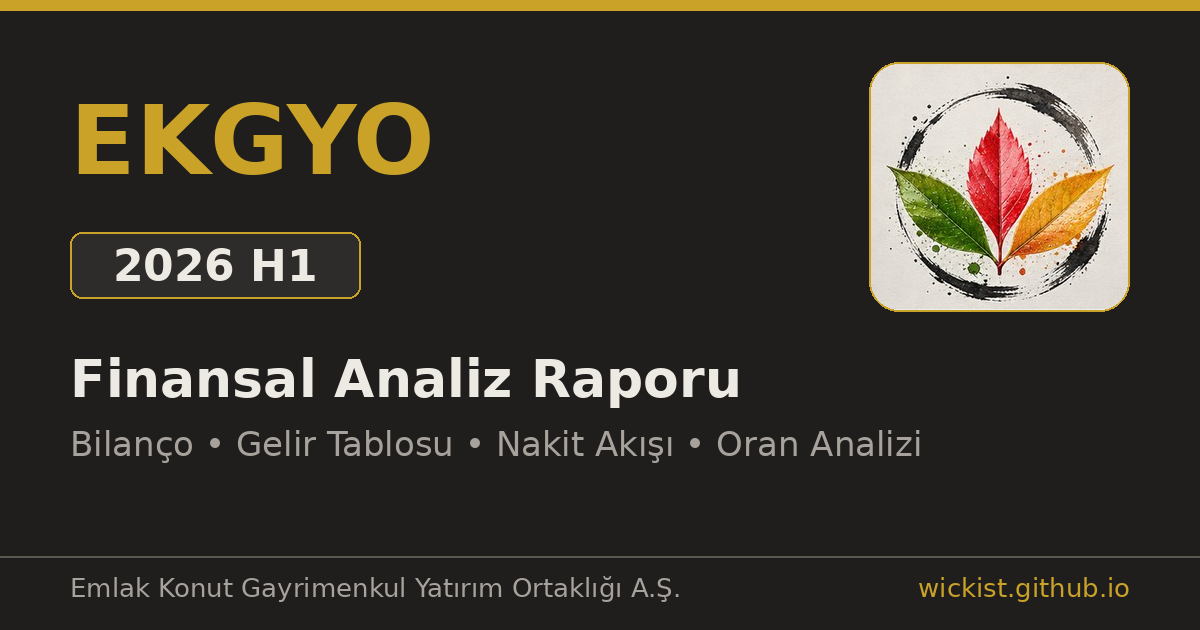
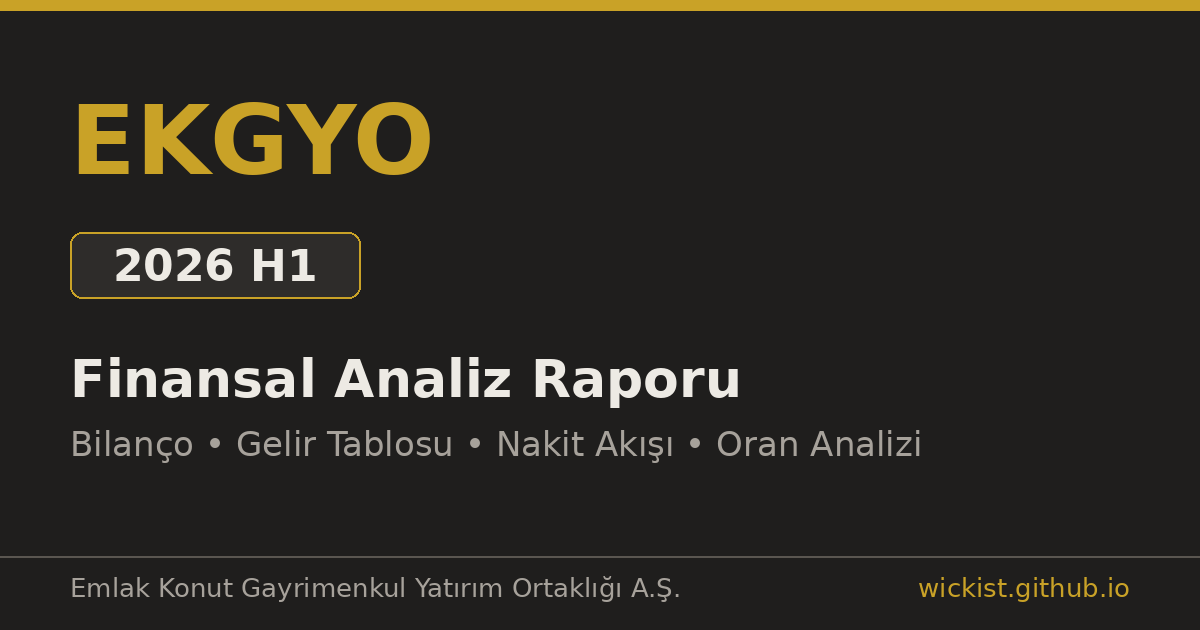
fix(report): BAHKM 2026-Q4 bos footer kalinti + unicode ustsimge temizligi; eski 16 kapak logosuz geri alindi (make_og --only)

Changed region(s): [[0.7092, 0.0905, 0.9558, 0.5127]]

diff --git a/reports/BAHKM/2026-Q4/index.html b/reports/BAHKM/2026-Q4/index.html
@@ -203,7 +203,7 @@ code{font-family:ui-monospace,monospace;font-size:.9em;background:#EFEBDD;border
 <text x="120" y="132" text-anchor="middle" font-family="Inter" font-size="10" fill="#6B675E">son 4 hafta net satım</text>
 </g>
 </svg></div>
-<p class="figcap">Sol: anlık takas payı — YAT %33,4 · VKY %11,7 · YATFON %10,4 · TAC %7,9 · MBS %5,5 · IYM %5,3 · diğer %25,8.⁶ Orta: 14 Eyl–15 Eki net alıcılar (takas Δ; lot) — YAT 1,07 mn (%43) · TAC 0,78 mn (%32) · MLB 0,32 mn (%13) · YKR 0,15 mn · diğer; saklama grubu MBS hariç. Sağ: aynı pencere net satıcılar — DZY* 0,75 mn (%42; fon satışının yürütüldüğü hesap, kendi malı değil) · TRA 0,26 · IYM 0,21 · VKY 0,17 · GRM+ZRY+FNY 0,40; TKSDG toplam-fark kalemi hariç.¹</p>
+<p class="figcap">Sol: anlık takas payı — YAT %33,4 · VKY %11,7 · YATFON %10,4 · TAC %7,9 · MBS %5,5 · IYM %5,3 · diğer %25,8. Orta: 14 Eyl–15 Eki net alıcılar (takas Δ; lot) — YAT 1,07 mn (%43) · TAC 0,78 mn (%32) · MLB 0,32 mn (%13) · YKR 0,15 mn · diğer; saklama grubu MBS hariç. Sağ: aynı pencere net satıcılar — DZY* 0,75 mn (%42; fon satışının yürütüldüğü hesap, kendi malı değil) · TRA 0,26 · IYM 0,21 · VKY 0,17 · GRM+ZRY+FNY 0,40; TKSDG toplam-fark kalemi hariç.</p>
 <h3>Kim, hangi maliyetle oturuyor (15.10 anlık yürütme referansı)</h3>
 <div class="tblwrap"><table>
 <tr><th>Kurum</th><th class="num">Takas payı</th><th class="num">Son yürütme ref.</th><th class="num">151,5 ₺'ye göre*</th><th>Okuma</th></tr>
@@ -217,10 +217,10 @@ code{font-family:ui-monospace,monospace;font-size:.9em;background:#EFEBDD;border
 </table></div>
 <p class="note">* <b>Alan uyarısı:</b> <code>Maliyet:</code> defter maliyeti DEĞİLDİR — 107 haftalık <code>maliyet_haftalik</code> serisiyle test edildi: 2026'da YAT'ın takas kitabı ~sabitken alan 113→186→114 ₺ osilasyonu yapıyor, 11.09.2026 değeri gün kapanışına eşit ve 4.291 gözlemde (alan÷kapanış−1) medyan +%0,2: alan fiyatın etrafında salınan anlık yürütme/settlement referansıdır. Kümülatif kitap maliyeti kamuya açık değildir — gerçek geçmiş kanıt <a href="#yurutme" style="color:#E4B96A">#yurutme</a> bölümündedir.</p>
 <div class="okbox"><b>1 — Maliyet tabanı 148–154 TL:</b> maliyeti bilinen takasın <b>%90,7</b>'si (toplam lotun %73,1'i) bu bantta oturuyor; 152 TL tam bandın içinde. Teyitli AKD pencerelerinde Ekim taban işlemleri <b>148,1–150,6 ₺ yürütme ortalamalarıyla</b> gerçekleşti — tabanın kendisi fiilen işlem gördü. 148 altına inildiğinde kurumsal maliyet yastığı kalmıyor — ilk savunma hattı TAC 150,18 / IYM 148,79 kümesi, sonra YAT 150,34'ün 7,77 mn lotu.</div>
-<div class="okbox"><b>2 — Toplanma gerçek ama tek katmanda değil:</b> son 4 hafta takas Δ'sı YAT +1,07 mn, TAC +0,78 mn, YKR +0,15 mn, UNS +0,06 mn ≈ 2,4 mn lot. Teyitli yürütme fiyatlarıyla iki katman var: <b>Ekim katmanı</b> — TAC +774,8 b @148,95, UNS +101,3 b @150,08 (kendi yürütme kümesinden alım); <b>Eylül katmanı</b> — YAT +888,0 b @177,41 (25–30.09). YAT'ın anlık yürütme referansı yine 150,34 ₺: W2'de 716,4 b lotu 191,08 ₺'den satıp Ekim'de düşük maliyetle tamamlayan bir yeniden-fiyatlama. YAT'ın Mart'ta −1,6 mn lot attığı malı Q3'te geri aldığı seri⁷ ile birlikte: aynı kurum döngüsü, net pozisyon yıl boyu +0,27 mn artmış. "Bu fiyattan mal toplanıyor mu?" → evet, ama spekülasyon değil: Ekim alıcısı son yürütme dibinden topluyor, referansa göre kâr %1'de.</div>
-<div class="flag"><b>3 — Satış tarafı tamponsuz + onay kuyruğunda arz:</b> son 4 haftanın gerçek satıcıları (IYM/VKY/GRM/ZRY/FNY ≈ 1,0 mn lot) başabaş veya batık maliyetten bırakıyor — fiyat kırarak mal boşaltacak kâr tamponları yok. Asıl kalem: <b>PHF'nin kalan 1.207.357 lotu</b> (sermayenin %2,2'si, float'ın ~%7,5'i ≈ 183 mn ₺) SPK form onayı bekliyor (başvuru 07.10).³ Onay + tek seferde market satış = 146–148 kümesinin test edilmesi; karşı alıcı (YAT/TAC maliyet bandı) orada. Ekim'de YATFON grubunun −675 b lotu DZY geçidinden @148,80'de satıldı ve aynı bantta TAC tarafından emildi — fon satış tempolarının markette emildiği görülmüş ilk örnek.</div>
-<div class="okbox"><b>4 — Virman = geçit değişimi, aklama değil:</b> PHF'nin mali döngüsü belgeli: PIT'ten al (net +920 b @191,58) → MBS saklamaya virman (+1,27 mn) → DZY'den sat (−675 b ayna çift, yürütme @148,80). Tüm ayna çiftler birebir dengeli (±%0,3), açıklanamayan artık yok; YAT↔TKSDG ve DZY↔YATFON çiftleri saklama operasyonu.⁷ Farklı kurumlardan alınıp farklı kurumlardan satılan mal tek paranın geçit rotasyonu — iz kaybetme (aklama) emaresi değil; 114/114 pencere dolu yürütme serisi doğrular: iz kaybı pencere boşluğunda değil, virmanın işlem olmamasındadır.</div>
-<div class="flag"><b>Karar türetmesi — TUT (AL/SAT tetikli):</b> iki taraf da yürütme bandında oturuyor: toplayıcılar referansa göre %2 altında mal boşaltmıyor, satıcıların aşağı atacak kâr tamponu yok, yürütme tabanı 148–154 örs; tek yeni arz PHF onay kuyruğu. Bu denge 152'de yön avantajsız = <b>TUT</b>. <b>Alım için uygun zaman/fiyat:</b> 148–150 yürütme kümesi (TAC'ın 148,95 ₺ yürütme ortalamayla kendi alış bandı) — ya PHF onaylı satışın bu kümeye düşüp <em>emildiği</em> haftada (arz temizliği + kümeyi tutan alıcı = AL tetiği) ya da 156–160'ın (ZRY/YKR referans üstü eşikleri) hacimle kırılıp üstünde kalınması (yukarıda satıcı yok, float %28,3 incelik). <b>Satım için uygun zaman/fiyat:</b> 146 altı kapanış = yürütme tabanı kırılımı, ZRY (164,6 ref.) ve YKR'nin (171,0 ref.) zorunullaşan satışını tetikler → stop; 156–160'a PHF habersiz volensiz ralli = dağıtım bölgesi (yukarıdaki tek alıcı referans üstükiler). Wiki değeri (58–72 ₺) her iki durumda da pozisyon büyüklüğünü sınırlar.¹,³,⁵,⁶</div>
+<div class="okbox"><b>2 — Toplanma gerçek ama tek katmanda değil:</b> son 4 hafta takas Δ'sı YAT +1,07 mn, TAC +0,78 mn, YKR +0,15 mn, UNS +0,06 mn ≈ 2,4 mn lot. Teyitli yürütme fiyatlarıyla iki katman var: <b>Ekim katmanı</b> — TAC +774,8 b @148,95, UNS +101,3 b @150,08 (kendi yürütme kümesinden alım); <b>Eylül katmanı</b> — YAT +888,0 b @177,41 (25–30.09). YAT'ın anlık yürütme referansı yine 150,34 ₺: W2'de 716,4 b lotu 191,08 ₺'den satıp Ekim'de düşük maliyetle tamamlayan bir yeniden-fiyatlama. YAT'ın Mart'ta −1,6 mn lot attığı malı Q3'te geri aldığı seri ile birlikte: aynı kurum döngüsü, net pozisyon yıl boyu +0,27 mn artmış. "Bu fiyattan mal toplanıyor mu?" → evet, ama spekülasyon değil: Ekim alıcısı son yürütme dibinden topluyor, referansa göre kâr %1'de.</div>
+<div class="flag"><b>3 — Satış tarafı tamponsuz + onay kuyruğunda arz:</b> son 4 haftanın gerçek satıcıları (IYM/VKY/GRM/ZRY/FNY ≈ 1,0 mn lot) başabaş veya batık maliyetten bırakıyor — fiyat kırarak mal boşaltacak kâr tamponları yok. Asıl kalem: <b>PHF'nin kalan 1.207.357 lotu</b> (sermayenin %2,2'si, float'ın ~%7,5'i ≈ 183 mn ₺) SPK form onayı bekliyor (başvuru 07.10). Onay + tek seferde market satış = 146–148 kümesinin test edilmesi; karşı alıcı (YAT/TAC maliyet bandı) orada. Ekim'de YATFON grubunun −675 b lotu DZY geçidinden @148,80'de satıldı ve aynı bantta TAC tarafından emildi — fon satış tempolarının markette emildiği görülmüş ilk örnek.</div>
+<div class="okbox"><b>4 — Virman = geçit değişimi, aklama değil:</b> PHF'nin mali döngüsü belgeli: PIT'ten al (net +920 b @191,58) → MBS saklamaya virman (+1,27 mn) → DZY'den sat (−675 b ayna çift, yürütme @148,80). Tüm ayna çiftler birebir dengeli (±%0,3), açıklanamayan artık yok; YAT↔TKSDG ve DZY↔YATFON çiftleri saklama operasyonu. Farklı kurumlardan alınıp farklı kurumlardan satılan mal tek paranın geçit rotasyonu — iz kaybetme (aklama) emaresi değil; 114/114 pencere dolu yürütme serisi doğrular: iz kaybı pencere boşluğunda değil, virmanın işlem olmamasındadır.</div>
+<div class="flag"><b>Karar türetmesi — TUT (AL/SAT tetikli):</b> iki taraf da yürütme bandında oturuyor: toplayıcılar referansa göre %2 altında mal boşaltmıyor, satıcıların aşağı atacak kâr tamponu yok, yürütme tabanı 148–154 örs; tek yeni arz PHF onay kuyruğu. Bu denge 152'de yön avantajsız = <b>TUT</b>. <b>Alım için uygun zaman/fiyat:</b> 148–150 yürütme kümesi (TAC'ın 148,95 ₺ yürütme ortalamayla kendi alış bandı) — ya PHF onaylı satışın bu kümeye düşüp <em>emildiği</em> haftada (arz temizliği + kümeyi tutan alıcı = AL tetiği) ya da 156–160'ın (ZRY/YKR referans üstü eşikleri) hacimle kırılıp üstünde kalınması (yukarıda satıcı yok, float %28,3 incelik). <b>Satım için uygun zaman/fiyat:</b> 146 altı kapanış = yürütme tabanı kırılımı, ZRY (164,6 ref.) ve YKR'nin (171,0 ref.) zorunullaşan satışını tetikler → stop; 156–160'a PHF habersiz volensiz ralli = dağıtım bölgesi (yukarıdaki tek alıcı referans üstükiler). Wiki değeri (58–72 ₺) her iki durumda da pozisyon büyüklüğünü sınırlar.,,,</div>
 </section>
 
 <section id="yurutme"><h2>Piyasanın gerçek geçmiş maliyeti yalnız yürütme fiyatı: 114 pencere × taraf-bazlı <code>avgPrice</code>, Ağu 2024 → Eki 2026</h2>
@@ -393,7 +393,7 @@ code{font-family:ui-monospace,monospace;font-size:.9em;background:#EFEBDD;border
 <ul>
 <li><b>PHF — Piramit Portföy BIST 50 Dışı Şirketler HS Serbest Fon (Hisse Yoğun):</b> BAHKM konumu Eylül içinde 0 → <b>2.807.357 lot</b> (23.09 satış öncesi; float'ın ~%16–17,5'i) → 23.09'da 1.600.000 lot satış → ay sonu 1.207.357. Fondaki BAHKM payı %99,98 (<code>shareOfStockHeld</code>), portföy ağırlığı <b>%112,61</b> — kaldıraç, BAHKM'nin fondaki TL karşılığı 184,2 mn ₺ (202609).</li>
 <li><b>Fon kartı (15.10):</b> aktif değer 163,4 mn ₺, portföy değeri 193,6 mn ₺, 129,3 mn pay, <b>194 yatırımcı</b>, risk 7; birim getiri 1 ay −%21,77, 3 ay +%38,52.</li>
-<li><b>Fon yatırımcı akışları</b> (<code>fundFlows.equity</code>, ham değerler): 202609 <b>−234.176.827,62 ₺</b>, 202610 −5.971.976,96 ₺; 202606/07/08 ise −110,89 / +174,89 / +27,45 ₺ mertebesinde. Haz–Ağustos değerlerinin Eyl'e göre ~10⁶ birim sıçraması alan semantiğinde soru işareti; negatif = net itfa sayan okuma (fonun Eylül'de büyüklüğüne yakın çıkış yaşadığı ve Ekim satışını beslediği) <span class="tag cikarim">çıkarım</span> — Eylül içi NAV'ın tamamı iddiası doğrulanamadı.</li>
+<li><b>Fon yatırımcı akışları</b> (<code>fundFlows.equity</code>, ham değerler): 202609 <b>−234.176.827,62 ₺</b>, 202610 −5.971.976,96 ₺; 202606/07/08 ise −110,89 / +174,89 / +27,45 ₺ mertebesinde. Haz–Ağustos değerlerinin Eyl'e göre ~10 birim sıçraması alan semantiğinde soru işareti; negatif = net itfa sayan okuma (fonun Eylül'de büyüklüğüne yakın çıkış yaşadığı ve Ekim satışını beslediği) <span class="tag cikarim">çıkarım</span> — Eylül içi NAV'ın tamamı iddiası doğrulanamadı.</li>
 <li><b>fundRatio (15.10):</b> BAHKM fonlarda %10,35, BES fonlarında %0. <b>BIY (Azimut Portföy BIST 100 Dışı):</b> önemsiz (942→241 lot).</li>
 <li><b>Fiili dolaşım hafta hafta:</b> 1 Eyl %32,41 → 14 Eyl %30,22 (tek günde −1,11 mn lot) → 29 Eyl %29,25 (−621 b) → 14 Eki %28,28. Kalan 1.207.357 PHF lotu ≈ float'ın ~%7,5'i.</li>
 </ul>
@@ -415,8 +415,6 @@ code{font-family:ui-monospace,monospace;font-size:.9em;background:#EFEBDD;border
 <li><b>Virman bağışçısı bilinmiyor</b>: Eylül 2025 +3,28 mn ve 10.11.2025 +3,79 mn lotun YAT hesabına geliş tarafı — gönderen kurum listede yok (saklama kayıtları kamuya açık değil). Boyut SPK onaylı 3,85 mn'a (30.10.2025/56, Bahadır) yakın ama float % kasımda yalnız +0,51 puan oynadı → kurucu bloğu değil, büyük olasılıkla float içi el değiştirme (çıkarım).</li>
 </ol>
 </section>
-
-<footer id="kaynak"><section></section></footer>
 <div class="copy">Üretim: takas projesi · hesaplama zinciri <code>hesaplama/</code> · üretilme 2026-10-15<div class="rights">© 2026 Enis Halıcı · Tüm hakları saklıdır.</div></div>
 </div><!-- site-publish:footer -->
 <footer style="max-width:1080px;margin:26px auto 0;padding:14px 20px 22px;border-top:1px solid

diff --git a/tools/make_og.py b/tools/make_og.py
@@ -6,6 +6,7 @@ Kullanım:
 """
 from __future__ import annotations
 
+import argparse
 import json
 from pathlib import Path
 
@@ -67,9 +68,15 @@ def draw_cover(path: Path, ticker: str, period_label: str, subtitle: str,
 
 
 def main() -> None:
+    ap = argparse.ArgumentParser(description="OG kapakları; --only TICKER:PERIOD ile yalnız seçili raporlar")
+    ap.add_argument("--only", action="append", metavar="TICKER:PERIOD")
+    a = ap.parse_args()
+    only = set(a.only or [])
     reg = json.loads((ROOT / "data" / "reports.json").read_text(encoding="utf-8"))
     made = 0
     for r in reg["reports"]:
+        if only and f"{r['ticker']}:{r['period']}" not in only:
+            continue
         out = ROOT / r["ogImage"].lstrip("/")
         out.parent.mkdir(parents=True, exist_ok=True)
         draw_cover(
